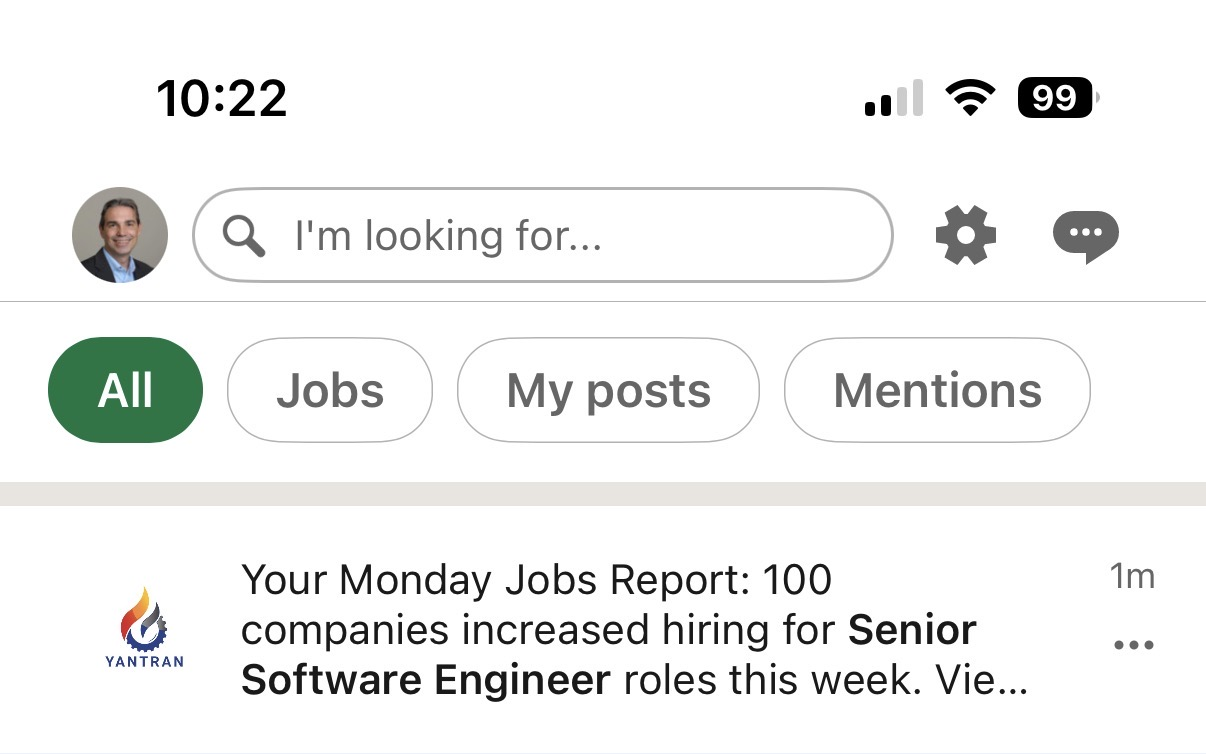
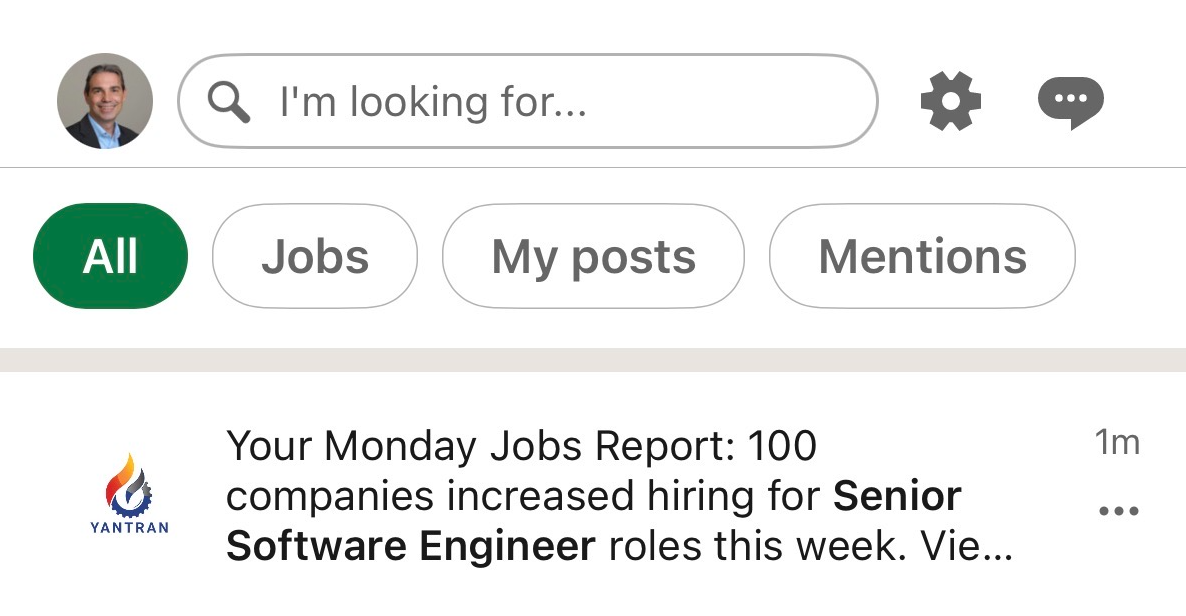
update landscape slide

diff --git a/presentation/styles.css b/presentation/styles.css
@@ -308,3 +308,12 @@
   padding-left: 1.15em;
 }
 
+.landscape-img {
+  margin-top: 12px;
+  width: 300px;
+  max-width: 65%;
+  border-radius: 14px;
+  border: 1px solid rgba(15, 23, 42, 0.12);
+  box-shadow: 0 14px 30px rgba(2, 6, 23, 0.18);
+}
+

diff --git a/presentation/slides.md b/presentation/slides.md
@@ -72,6 +72,13 @@ mdc: true
 
 - Headlines: "Q1 2026 Shatters Venture Funding Records as AI Boom Pushes Startup Investment To $300B"
 
+LinkedIn Post this week
+<img
+  class="landscape-img"
+  src="/assets/linked_in_notification_this_week.jpg"
+  alt="LinkedIn weekly hiring notification"
+/>
+
 
 Sources:
 - [TechNoise global count](https://technoise.co.uk/how-many-technology-companies-are-in-the-world-a-global-count/)
